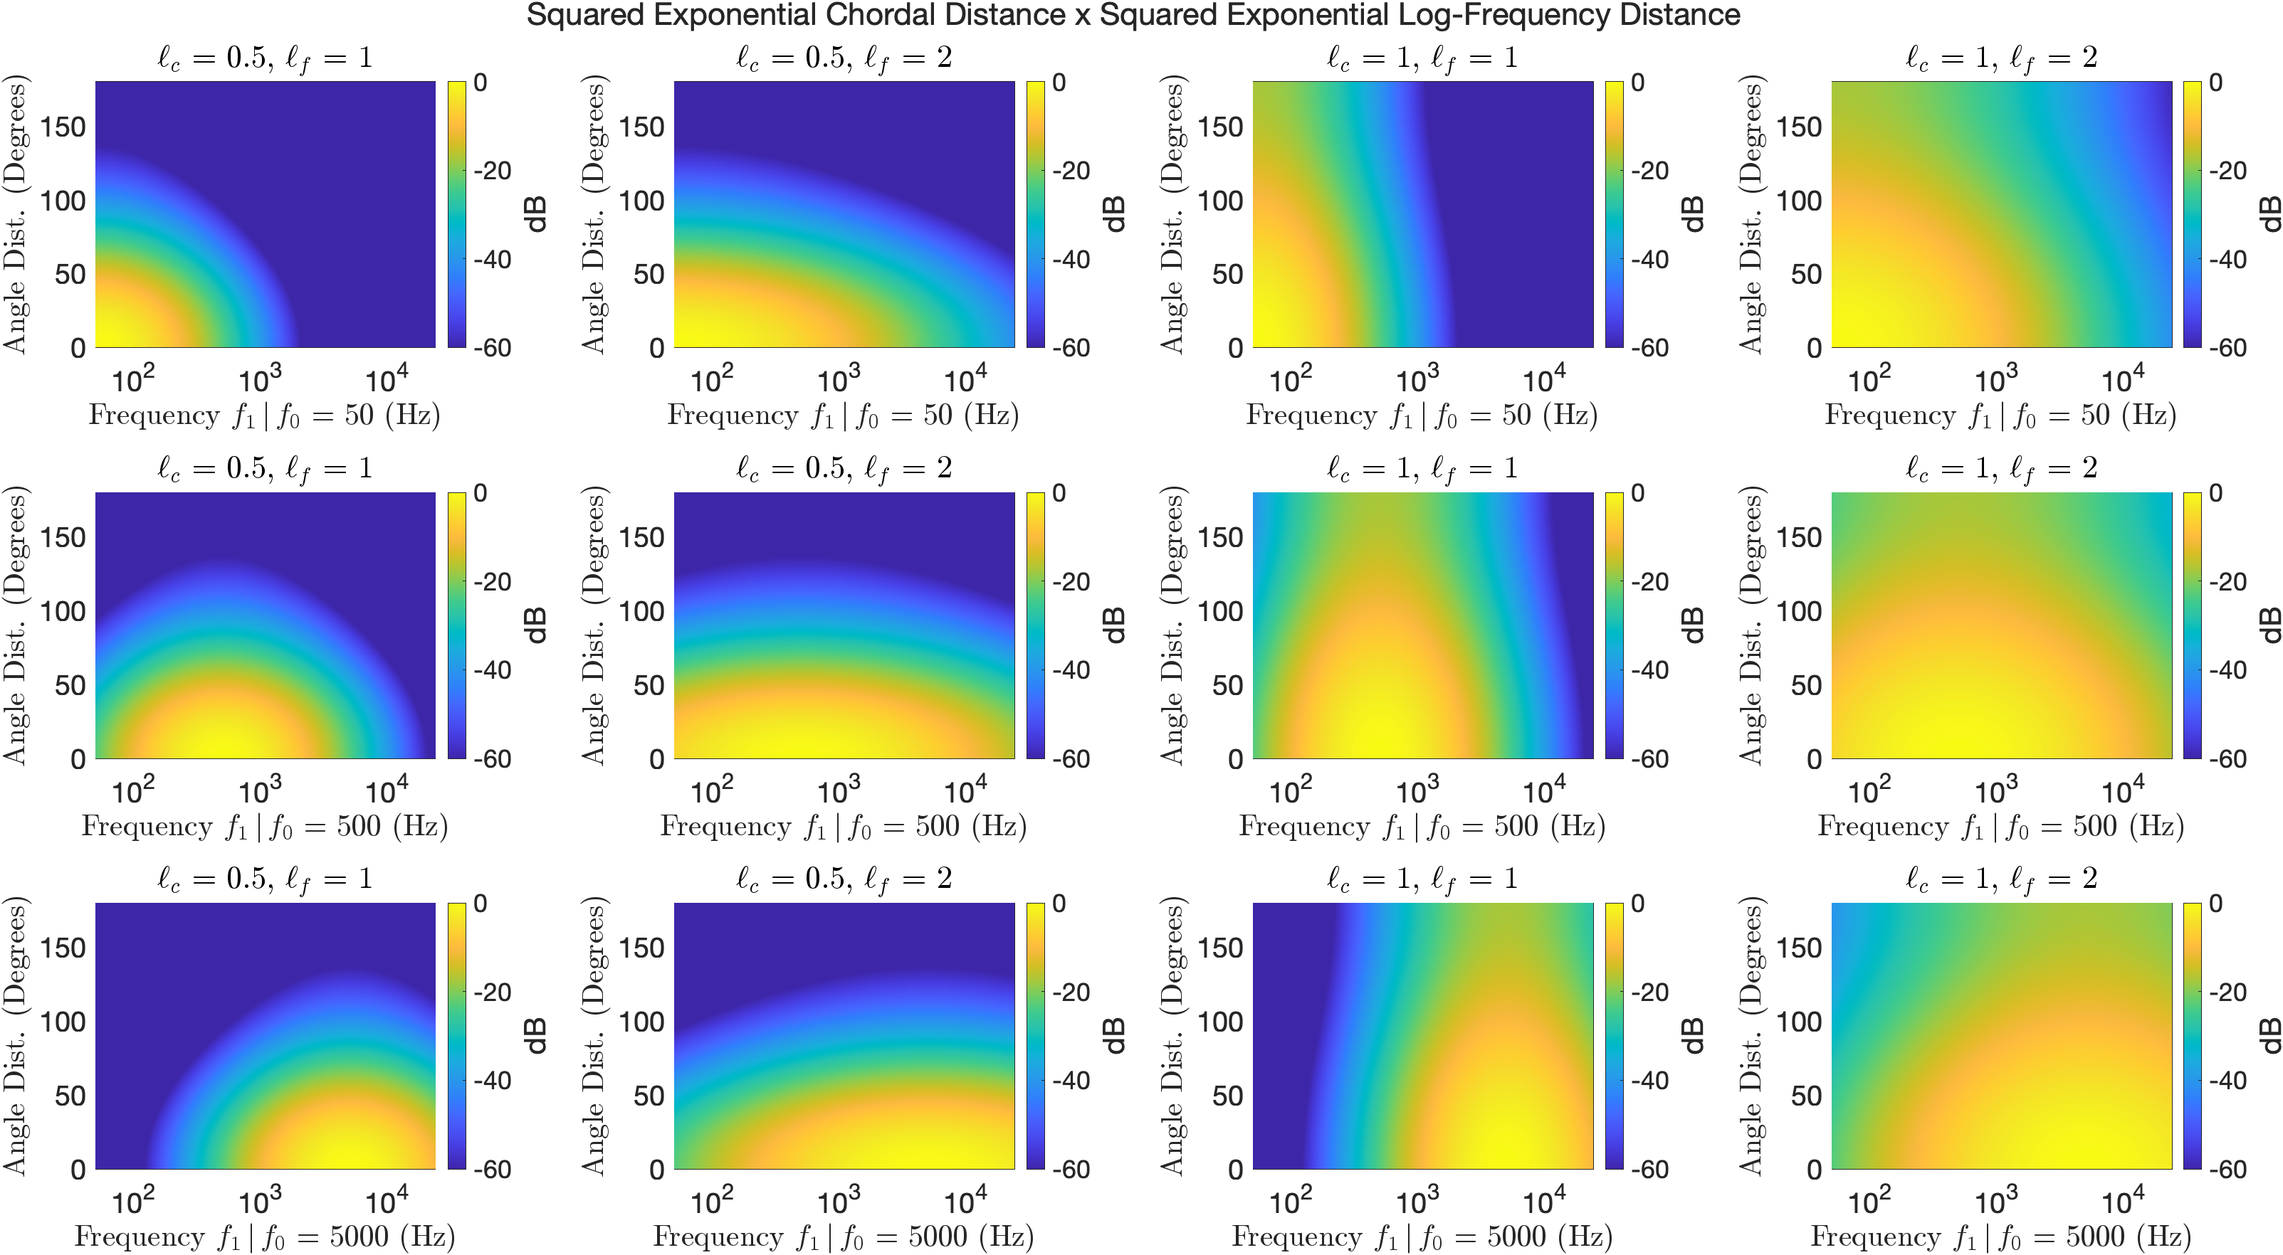
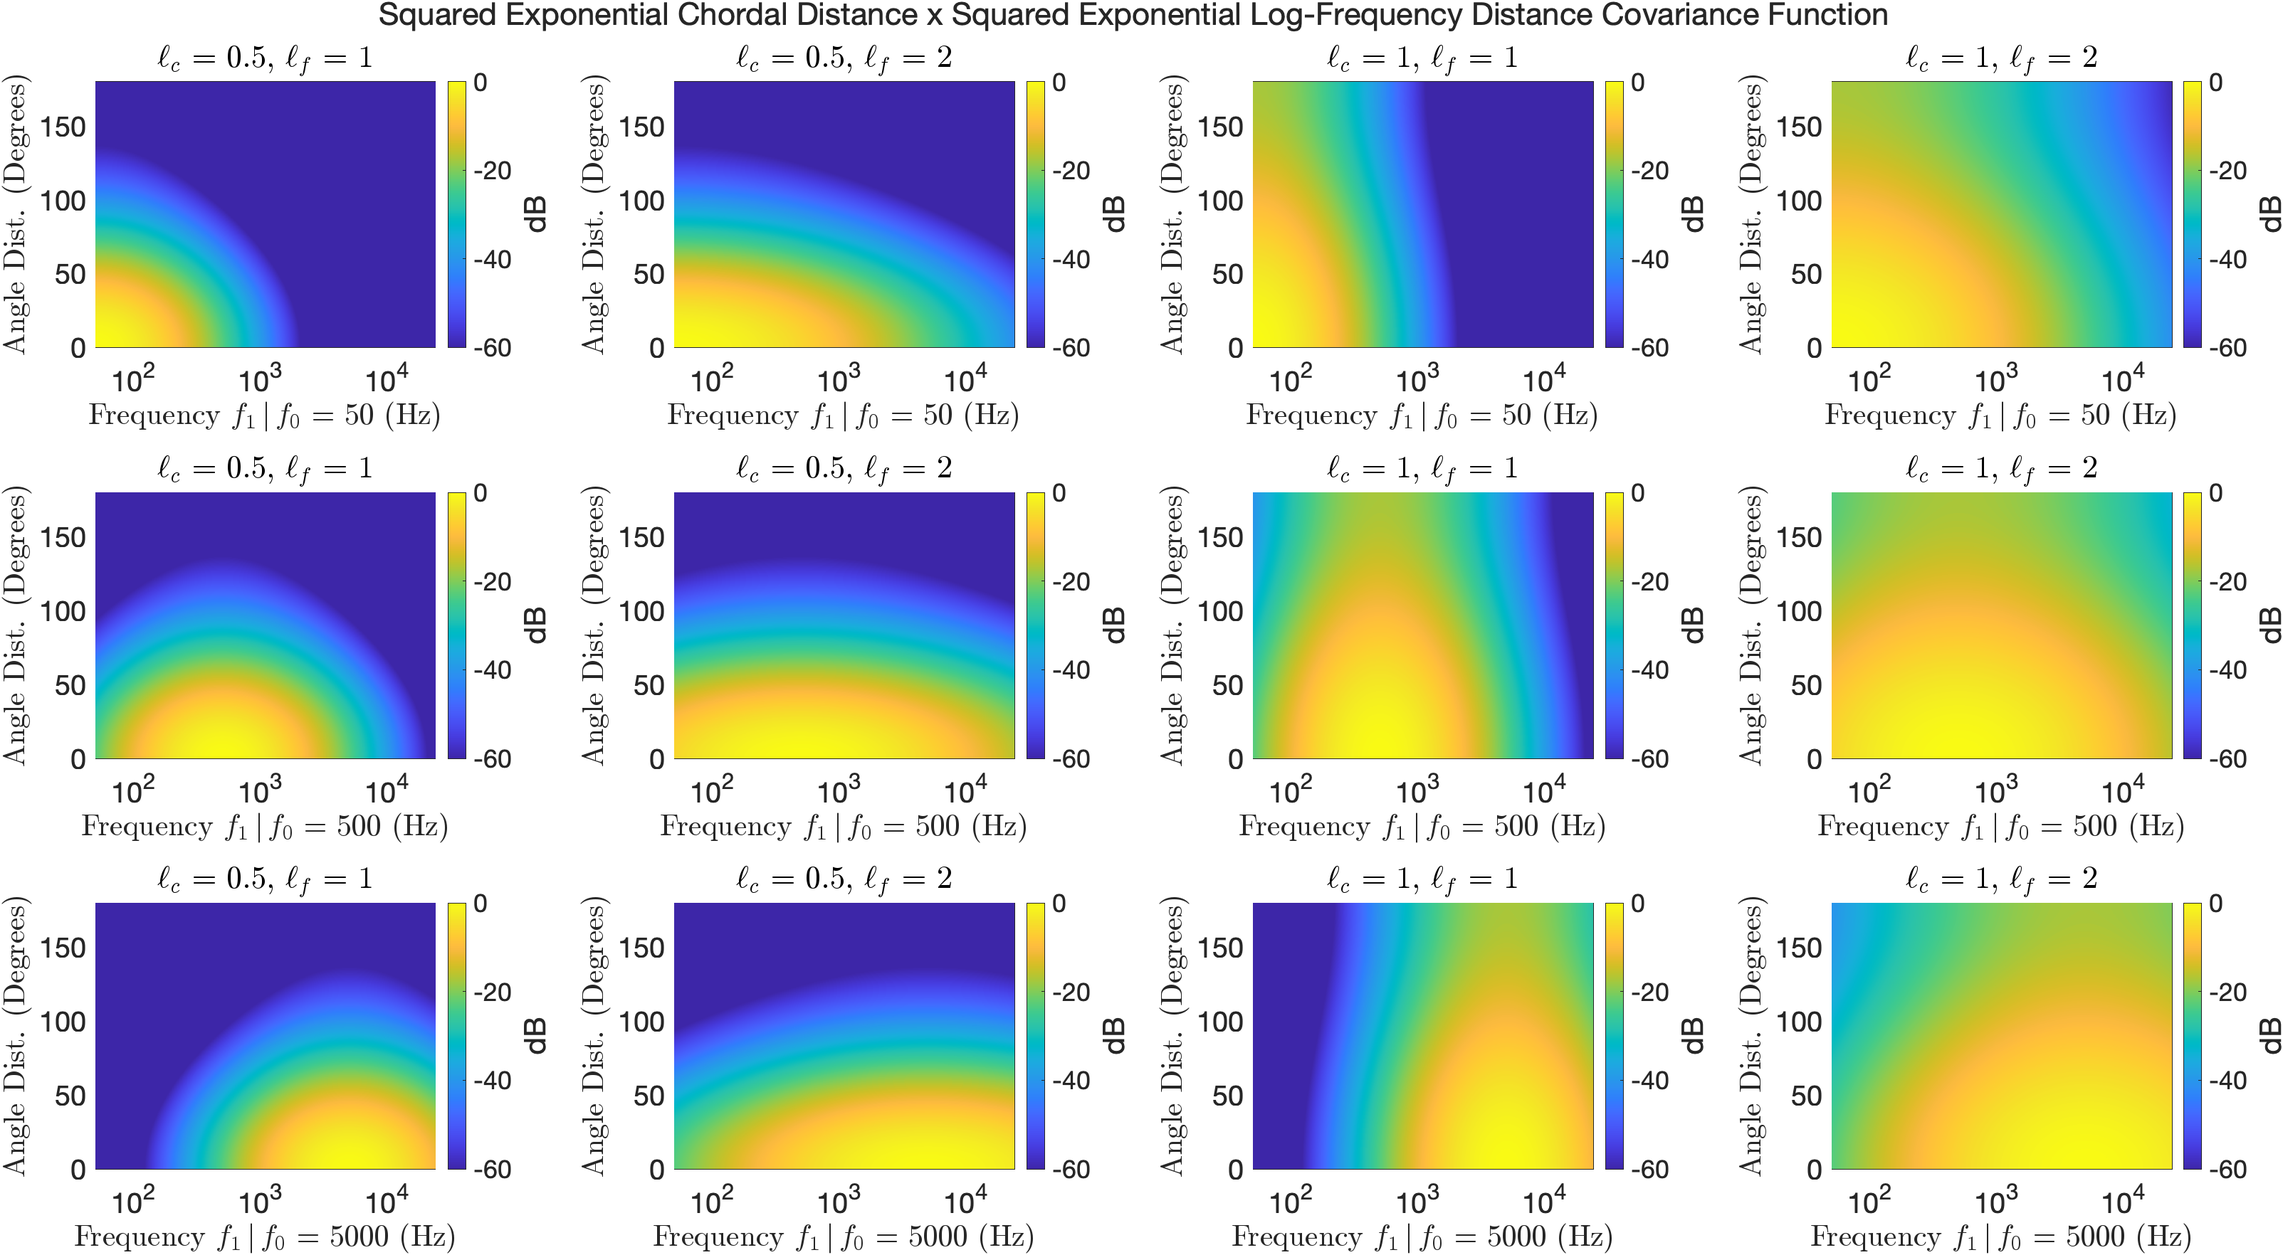
update markdown T60 tutorial and gp prior function plotting

Changed region(s): [[0.1559, 0.0, 0.8419, 0.0312]]

diff --git a/gp/gp_plt.m b/gp/gp_plt.m
@@ -1,35 +1,69 @@
-function h_fig_list = gp_plt(cov_name, options)
-%Plot Gaussian process covariance functions
+function h_fig_list = gp_plt(func_name, options)
+%Plot Gaussian process prior functions
 
 %Author: Yuancheng Luo, 2026
 
 %%%%%%%%%%%%%%%%%%%%%%%%%%%%%%%%%%%%%%%%%%%%%%%%%%%%%%%%%%%%%%%%%%%%%%%%%%%
 %Input
-%cov_name:          String, covariance function name {'cov_sqx_chw_ns', 'cov_sqx_chw_sqx'}
+%func_name:         String, prior mean or covariance function name
+%                   {'mu_pow', 'mu_lpf', 'cov_sqx_chw_ns', 'cov_sqx_chw_sqx'}
 
 %options:           Struct
 
-%options.cov_sqx_chw_ns_f_lo:       Scalar, frequency start  (Hz)
-%options.cov_sqx_chw_ns_f_hi:       Scalar, Frequency end (Hz)
-%options.cov_sqx_chw_ns_f_0:        [1 x N_f_0] Frequency f_0 (Hz)
-%optons.cov_sqx_chw_ns_sigma:       Scalar, covariance scaling parameter
-%optons.cov_sqx_chw_ns_ell_list:    [1 x N_ell], list of wavelength scaling
-%optons.cov_sqx_chw_ns_gamma_list:  [1 x N_gamma], list of wavelength exponent
+% options.mu_pow_f_lo:                  Scalar, frequency start (Hz)
+% options.mu_pow_f_hi:                  Scalar, Frequency end (Hz)
+% options.mu_pow_alpha_list:            [1 x N_alpha], list of T60 at 0 Hz
+% options.mu_pow_beta_list:             [1 x N_beta], list of decay exponents
 
-%options.enable_export:             Logical, if true, export figures to files
+% options.mu_lpf_f_lo:                  Scalar, frequency start (Hz)
+% options.mu_lpf_f_hi:                  Scalar, Frequency end (Hz)
+% options.mu_lpf_alpha_list:            [1 x N_alpha], list of T60 at 0 Hz
+% options.mu_lpf_beta_list:             [1 x N_beta], list of decay exponents
+% options.mu_lpf_omega_fc_list:         [1 x N_fc], list of cross-over frequencies
+
+% options.cov_sqx_chw_ns_f_0_list:       [1 x N_f_0] Frequency f_0 (Hz)
+% options.cov_sqx_chw_ns_f_lo:           Scalar, frequency start (Hz)
+% options.cov_sqx_chw_ns_f_hi:           Scalar, Frequency end (Hz)
+% options.cov_sqx_chw_ns_sigma:          Scalar, covariance scaling parameter
+% options.cov_sqx_chw_ns_ell_list:       [1 x N_ell], list of wavelength scaling
+% options.cov_sqx_chw_ns_gamma_list:     [1 x N_gamma], list of wavelength exponents
+% 
+% options.cov_sqx_chw_sqx_f_0_list:      [1 x N_f_0] Frequency f_0 (Hz)
+% options.cov_sqx_chw_sqx_f_lo:          Scalar, frequency start (Hz)
+% options.cov_sqx_chw_sqx_f_hi:          Scalar, Frequency end (Hz)
+% options.cov_sqx_chw_sqx_sigma:         Scalar, covariance scaling parameter
+% options.cov_sqx_chw_sqx_ell_c_list:    [1 x N_ell], list of wavelength scaling
+% options.cov_sqx_chw_sqx_ell_f_list:    [1 x N_gamma], list of wavelength exponents
+% 
+% options.enable_export:                 Logical, if true, export figures to files
 
 %%%%%%%%%%%%%%%%%%%%%%%%%%%%%%%%%%%%%%%%%%%%%%%%%%%%%%%%%%%%%%%%%%%%%%%%%%%
 %Output
 %h_fig_list:        [1 x *] cell of figure handles
 
 %%%%%%%%%%%%%%%%%%%%%%%%%%%%%%%%%%%%%%%%%%%%%%%%%%%%%%%%%%%%%%%%%%%%%%%%%%%
-%Sample usage: Plot covariance function w.r.t. varying hyperparameters
+%Sample usage: Plot function w.r.t. varying hyperparameters
+
+%gp_plt('mu_pow', 'enable_export', true);
+%gp_plt('mu_lpf', 'enable_export', true);
 
 %gp_plt('cov_sqx_chw_ns', 'enable_export', true);
 %gp_plt('cov_sqx_chw_sqx', 'enable_export', true);
 
 arguments
-    cov_name (1,:) char {mustBeMember(cov_name, {'cov_sqx_chw_ns', 'cov_sqx_chw_sqx'})} = 'cov_sqx_chw_ns';
+    func_name (1,:) char {mustBeMember(func_name, {'mu_pow', 'mu_lpf', 'cov_sqx_chw_ns', 'cov_sqx_chw_sqx'})} = 'cov_sqx_chw_ns';
+
+    options.mu_pow_f_lo (1,1) double {mustBePositive} = 50;
+    options.mu_pow_f_hi (1,1) double {mustBePositive}  = 24000;
+    options.mu_pow_alpha_list (1,:) double {mustBeNonnegative} = [0.25, 1, 1.5];
+    options.mu_pow_beta_list (1,:) double = [0, 0.125, 0.25];
+
+    options.mu_lpf_f_lo (1,1) double {mustBePositive} = 50;
+    options.mu_lpf_f_hi (1,1) double {mustBePositive}  = 24000;
+    options.mu_lpf_alpha_list (1,:) double {mustBeNonnegative} = [0.25, 1, 1.5];
+    options.mu_lpf_beta_list (1,:) double  {mustBeNonnegative} = [0, 0.25, 0.5];
+    options.mu_lpf_omega_fc_list (1,:) double = 2 * pi * [50, 500, 5000];
+
 
     options.cov_sqx_chw_ns_f_0_list  (1,:) double {mustBePositive} = [50, 500, 5000];
     options.cov_sqx_chw_ns_f_lo (1,1) double {mustBePositive} = 50;
@@ -38,14 +72,12 @@ arguments
     options.cov_sqx_chw_ns_ell_list (1,:) double {mustBePositive} = 343;
     options.cov_sqx_chw_ns_gamma_list (1,:) double {mustBePositive} =  [0.5, 1, 1.5];
 
-
     options.cov_sqx_chw_sqx_f_0_list  (1,:) double {mustBePositive} = [50, 500, 5000];
     options.cov_sqx_chw_sqx_f_lo (1,1) double {mustBePositive} = 50;
     options.cov_sqx_chw_sqx_f_hi (1,1) double {mustBePositive}  = 24000;
     options.cov_sqx_chw_sqx_sigma (1,1) double {mustBeNonnegative} = 1;
     options.cov_sqx_chw_sqx_ell_c_list (1,:) double {mustBePositive} = [1 2]/2;
     options.cov_sqx_chw_sqx_ell_f_list (1,:) double {mustBePositive} = [2 4]/2;
-
 
     options.fontsize (1,1) double {mustBePositive, mustBeInteger} = 20;
     options.FaceColor (1,:) char {mustBeMember(options.FaceColor, {'flat', 'interp'}) } = 'flat';
@@ -54,7 +86,127 @@ arguments
     options.enable_export (1,1) logical = false;
 end
 
-if strcmp(cov_name, 'cov_sqx_chw_ns')
+if strcmp(func_name, 'mu_pow')
+
+    N_freq = 32;
+    f_lo = options.mu_pow_f_lo;
+    f_hi = options.mu_pow_f_hi;
+    freq_list = logspace(log10(f_lo), log10(f_hi), N_freq);
+    omega = 2 * pi * freq_list;
+       
+    fontsize = options.fontsize - 2;
+
+    alpha_list = options.mu_pow_alpha_list;
+    beta_list = options.mu_pow_beta_list;
+
+    N_alpha = numel(alpha_list);
+    N_beta = numel(beta_list);
+
+    mu_list = zeros([N_freq, N_alpha, N_beta]);
+    for i = 1:N_alpha
+        for j = 1:N_beta
+            mu_list(:, i, j) = mu_pow(omega, alpha_list(i), beta_list(j));
+        end
+    end
+    
+    %Plot
+    h_fig = figure;
+    h_fig.Position = [100, 100, 900, 450];
+    h_fig_list{1} = h_fig;
+
+    line_style_list = {'-', '--', '-.', ':'};
+    marker_style_list = {'*', 'o', 's', 'd'};
+    color_list = orderedcolors("gem");
+    legend_str = {};
+
+    for i = 1:N_alpha
+        for j = 1:N_beta
+            semilogx(freq_list, mu_list(:, i, j), ...
+                'Color', color_list(mod(i-1, size(color_list, 1)) + 1, :), ...
+                'LineStyle', line_style_list{mod(j-1, numel(line_style_list) ) + 1 }, ...
+                'Marker', marker_style_list{mod(j-1, numel(marker_style_list) ) + 1 }, 'MarkerSize', 8, ...
+                'linewidth', 1.5);
+            hold on;
+            legend_str{end+1} = ['$\alpha = $ ', num2str(alpha_list(i)), ', $\beta = $ ', num2str(beta_list(j))];
+        end
+    end
+    ylim([0, max(mu_list(:))]);
+    grid on;
+    axis tight;
+    xlabel('Frequency (Hz)', 'fontsize', fontsize);
+    ylabel('T60 (Seconds)', 'fontsize', fontsize);
+    title('Prior Mean Power Function', 'fontsize', fontsize + 1);
+    set(gca, 'fontsize', fontsize - 1);
+    h_lg = legend(legend_str, 'location', 'best', 'NumColumns', N_alpha, 'interpreter', 'latex');
+    set(h_lg, 'fontsize', fontsize - 1);
+ 
+elseif strcmp(func_name, 'mu_lpf')
+
+    N_freq = 32;
+    f_lo = options.mu_lpf_f_lo;
+    f_hi = options.mu_lpf_f_hi;
+    freq_list = logspace(log10(f_lo), log10(f_hi), N_freq);
+    omega = 2 * pi * freq_list;
+       
+    fontsize = options.fontsize - 2;
+
+    alpha_list = options.mu_lpf_alpha_list;
+    beta_list = options.mu_lpf_beta_list;
+    omega_fc_list =  options.mu_lpf_omega_fc_list;
+
+    N_alpha = numel(alpha_list);
+    N_beta = numel(beta_list);
+    N_fc = numel(omega_fc_list);
+
+    mu_list = zeros([N_freq, N_alpha, N_beta, N_fc]);
+    for i = 1:N_alpha
+        for j = 1:N_beta
+            for k = 1:N_fc
+                mu_list(:, i, j, k) = mu_lpf(omega, alpha_list(i), beta_list(j), omega_fc_list(k));
+            end
+        end
+    end
+    
+    %Plot
+    h_fig = figure;
+    h_fig.Position = [100, 100, 1600, 900];
+    h_fig_list{1} = h_fig;
+
+    line_style_list = {'-', '--', '-.', ':'};
+    marker_style_list = {'*', 'o', 's', 'd'};
+    color_list = orderedcolors("gem");
+    legend_str = {};
+
+    h_t = tiledlayout(1, N_fc);
+    for k = 1:1:N_fc
+        nexttile;
+        for i = 1:N_alpha
+            for j = 1:N_beta
+                semilogx(freq_list, mu_list(:, i, j, k), ...
+                    'Color', color_list(mod(i-1, size(color_list, 1)) + 1, :), ...
+                    'LineStyle', line_style_list{mod(j-1, numel(line_style_list) ) + 1 }, ...
+                    'Marker', marker_style_list{mod(j-1, numel(marker_style_list) ) + 1 }, 'MarkerSize', 8, ...
+                    'linewidth', 1.5);
+                hold on;
+                legend_str{end+1} = ['$\alpha = $ ', num2str(alpha_list(i)), ', $\beta = $ ', num2str(beta_list(j))];
+            end
+        end
+
+        ylim([0, max(mu_list(:))]);
+        grid on;
+        axis tight;
+        xlabel('Frequency (Hz)', 'fontsize', fontsize);
+        ylabel('T60 (Seconds)', 'fontsize', fontsize);
+        title(['$f_c = $ ', num2str(omega_fc_list(k) / (2 * pi) ), ' Hz'], 'fontsize', fontsize + 1, 'interpreter', 'latex');
+        set(gca, 'fontsize', fontsize - 1);
+        h_lg = legend(legend_str, 'location', 'best', 'NumColumns', 1, 'interpreter', 'latex');
+        set(h_lg, 'fontsize', fontsize - 1);
+     
+    end
+
+    title(h_t, 'Prior Mean Low-Pass Function', 'fontsize', fontsize + 1);
+
+elseif strcmp(func_name, 'cov_sqx_chw_ns')
 
     N_freq = 600;
     N_theta_phi = 400; 
@@ -69,7 +221,6 @@ if strcmp(cov_name, 'cov_sqx_chw_ns')
 
     [freq_mat, phi_mat] = meshgrid(freq_list, phi_list);
     X = [2 * pi * freq_mat(:), theta * ones(N_freq * N_theta_phi, 1), phi_mat(:)];
-
 
     %Hyperparameters
     sigma = options.cov_sqx_chw_ns_sigma;
@@ -136,10 +287,10 @@ if strcmp(cov_name, 'cov_sqx_chw_ns')
         end
     end
 
-    title(h_t, 'Squared Exponential Chordal Distance with Non-stationary Frequency', 'fontsize', options.fontsize + 1);
+    title(h_t, 'Squared Exponential Chordal Distance with Non-stationary Frequency Covariance Function', 'fontsize', options.fontsize + 1);
 
 
-elseif strcmp(cov_name, 'cov_sqx_chw_sqx')
+elseif strcmp(func_name, 'cov_sqx_chw_sqx')
 
     N_freq = 600;
     N_theta_phi = 400; 
@@ -218,11 +369,11 @@ elseif strcmp(cov_name, 'cov_sqx_chw_sqx')
         end
     end
 
-    title(h_t, 'Squared Exponential Chordal Distance x Squared Exponential Log-Frequency Distance', 'fontsize', options.fontsize + 1);
+    title(h_t, 'Squared Exponential Chordal Distance x Squared Exponential Log-Frequency Distance Covariance Function', 'fontsize', options.fontsize + 1);
 
 
 else
-    error('Unsupported cov_name');
+    error('Unsupported func_name');
 end
 
 %Export
@@ -233,6 +384,6 @@ if options.enable_export
         mkdir(out_dir);
     end
     for n = 1:numel(h_fig_list)
-        exportgraphics(h_fig_list{n}, fullfile(out_dir, [cov_name, '_', num2str(n), '.png']));
+        exportgraphics(h_fig_list{n}, fullfile(out_dir, [func_name, '_', num2str(n), '.png']));
     end
 end

diff --git a/sh/sh_enc_rbf.m b/sh/sh_enc_rbf.m
@@ -10,7 +10,7 @@ function C = sh_enc_rbf(mode, max_odr, theta, phi, ell, is_real, enable_disp)
 %Unnormalized sinc:                 sin(ell * d) / (ell * d) 
 
 %d is chordal distance between two vectors u, v on unit sphere:
-%d = 2 * sin(|x(u, v)| / 2)     
+%d = 2 * sin(|x(u, v)| / 2)  = norm(u - v)
 
 %For unit sphere, x is a angle between u, v:
 %x(u, v) = acos(u'v), where v = sph2cart(phi, pi/2 - theta) is fixed, u is free

diff --git a/tutorial_t60_aug.md b/tutorial_t60_aug.md
@@ -1,9 +1,46 @@
 # Tutorial: Spatial Room Impulse Response T60 Augmentation
 
+In this tutorial, we cover sound decay time augmentation of room impulse responses (RIRs) from our paper 
+>Yuancheng Luo, "Fast Time-Varying Exponentiated Convolution Methods for Generative Direction Dependent Reverberation", Proceedings of the 160th Audio Engineering Society Convention.
+
+The high-level steps are as follows:
+* Sample or design a sound decay time function $T_{60}(\omega, \theta, \phi)$ of angular frequency $\omega$, and spherical coordinates $(\theta, \phi)$ co-latitude and azimuth respectively
+* Fit a short finite impulse response (FIR) exponentiating filter $\bf{g}$ to sampled $T_{60}(\omega, \theta, \phi)$ functions
+* Specify an input RIR or generate a colorless (constant T60) RIR $\bf{h}$
+* Apply time-varying exponentiated convolution $\textbf{f} = f(\bf{g}, \bf{h})$
+
 ## Sampling T60 Functions from Gaussian Processes
-We can sample smooth T60 functions $T_{60}(\omega, \theta, \phi)$ of frequency and spherical coordinates from Gaussian processes distributions.
+We can sample smooth T60 functions $T_{60}(\omega, \theta, \phi)$ of frequency and spherical coordinates from Gaussian processes distributions defined by prior mean and covariance functions.
 
 ### Mean Function Prior Specifications
+
+A simple T60 prior mean is the power law function given by
+
+$$\overline{T}_{60}(\omega) =  \alpha  \max \left ( 1, \nu(\omega)  \right ) ^{-\beta}, \quad \nu(\omega) = \frac{\omega}{2 \pi}, $$
+
+where $\alpha$ is the T60 (seconds) at 0 Hz, $\beta$ is the decay exponent, and $\nu(\omega)$ is ordinary frequency. Increasing the decay rate $\beta$ inflects the T60 curve towards 0 seconds for larger frequencies in the following figure: 
+
+```
+gp_plt('mu_pow');
+```
+<img src="./figs/figs_t60/mu_pow_1.png" alt="Power Function" width="600"/>
+
+We can introduce a 3rd shape parameter to control the tilt following an idealized low-pass filter response design given by
+
+$$\overline{T}_{60}(\omega) =  \frac{\alpha}{1 + \left ( \frac{\nu(\omega)}{f_c}  \right )^{\beta}}, $$
+
+where $f_c$ is the cross-over frequency relative to the flat T60 curve $(\beta = 0)$ shown in the following figure:
+
+```
+gp_plt('mu_lpf');
+```
+<img src="./figs/figs_t60/mu_lpf_1.png" alt="Power Function" width="900"/>
+
+
+We can evaluate prior mean functions via `gp_mu.m` and its options block `gp_mu_opts.m`:
+```
+
+```
 
 ### Covariance Function Prior Specifications
 
@@ -11,7 +48,7 @@ We can construct positive semi-definite covariance functions from chordal distan
 
 $$d(\theta, \phi, \theta', \phi') = 2 \sin \left ( \frac{ \left | \, \cos^{-1} (\bf{v}^T \bf{v}') \right |   }{2} \right ) = \left \| \bf{v} - \bf{v}'  \right \|_2 .$$
 
-The squared exponential of chordal distance and non-stationary frequency is positive semi-definite and given by
+The squared exponential of chordal distance with non-stationary kernel wavelengths is therefore a non-stationary Gaussian kernel[^PACIOREK_NS] in 3-dimensions where $\bf{\Sigma} = \lambda^2 \bf{I} \in \mathbb{R}^{3 \times 3}$, and is positive semi-definite following  
 
 $$k(\bf{x},\bf{x}') = \sigma^2 \left ( \frac{2 \lambda \lambda'}{\lambda^2 + (\lambda')^2} \right )^{3/2} \exp \left (  - \frac{d^2(\theta, \phi, \theta', \phi') }{(\lambda^2 + (\lambda')^2) / 2}  \right ),$$
 
@@ -28,11 +65,11 @@ where the maximum covariances occur at $\lambda = \ell / f_0^{\gamma}$ for varyi
 * T60s at lower frequencies are smoother than at higher frequencies.
 
 
-We can compare with the product of squared exponential of chordal distance and squared exponential of log-frequency distances given by
+We compare our non-stationary covariance with the stationary product of squared exponential of chordal distance and squared exponential of log-frequency distances given by
 
 $$k(\bf{x},\bf{x}') = \sigma^2 \exp \left (  - \frac{d^2(\theta, \phi, \theta', \phi') }{2 \ell_c^2}  \right )  \exp \left (  - \frac{(log(f) - log(f'))^2 }{2 \ell_f^2}  \right ) ,$$
 
-where $\ell_c$, $\ell_f$ are length-scale hyper-parameters of the chordal and log-frequency distances respectively. Therefore, the covariance function I stationary w.r.t. the chordal and log-frequency distances as shown in the following figure:
+where $\ell_c$, $\ell_f$ are length-scale hyper-parameters of the chordal and log-frequency distances respectively. Therefore, the covariance function is stationary w.r.t. the chordal and log-frequency distances as shown in the following figure:
 
 ```
 gp_plt('cov_sqx_chw_sqx');
@@ -41,6 +78,13 @@ gp_plt('cov_sqx_chw_sqx');
 
 where frequency $f = f_0$ for varying $f' = f_1$. Unlike the non-stationary covariance, the low and high frequencies covary only by their octave separation, and are independent of the absolute frequency.
 
-## Realizing Time-varying Exponentiating Filters
+### Sampling from the Prior and Posterior Distributions
 
-## Room Impulse Response Generation and Augmentation
+## Fitting FIR to T60 Functions
+
+## Generating Colorless Room Impulse Responses
+
+## Applying Time-Varying Exponentiated Convolution
+
+[^PACIOREK_NS]: Paciorek, C., & Schervish, M. (2003). Nonstationary covariance functions for Gaussian process regression. Advances in neural information processing systems, 16.
+
